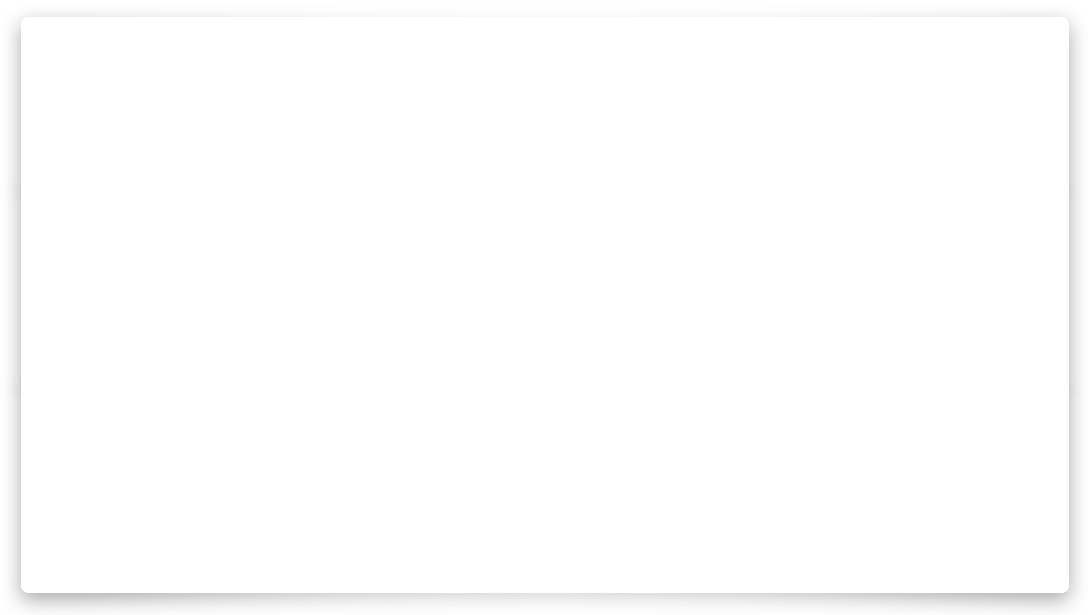
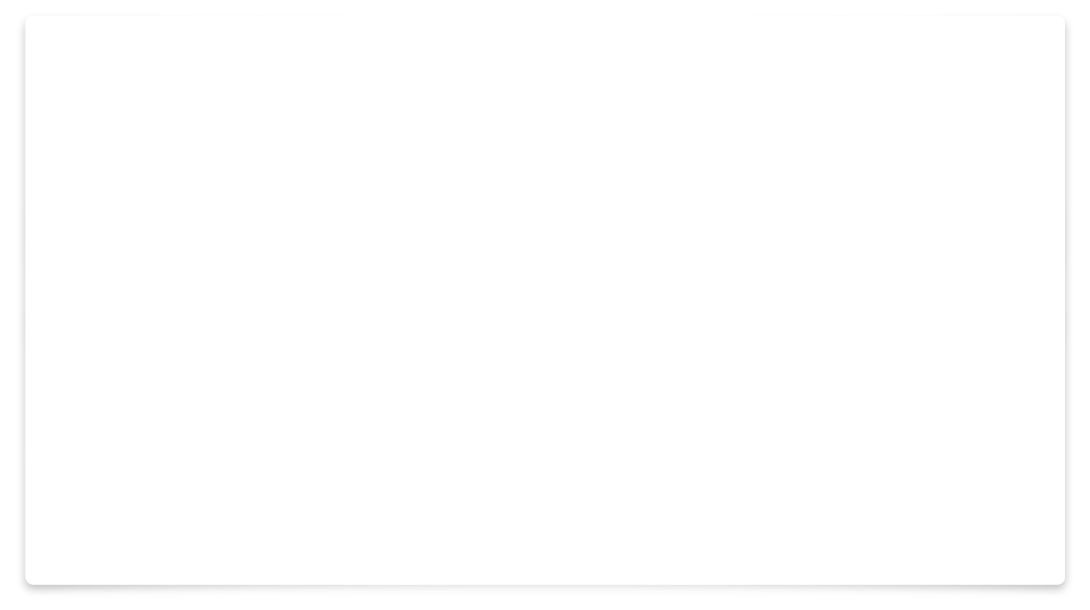
added clipping masks for webkit

Changed region(s): [[0.0, 0.0623, 0.3431, 0.9967], [0.6862, 0.0623, 0.9982, 0.9967]]

diff --git a/www/assets/styles/base.less b/www/assets/styles/base.less
@@ -22,15 +22,14 @@
 }
 
 #map {
-    padding: 15px 21px 24px;
+    padding: 15px 25px 24px;
     overflow:hidden;
     #sourcemap-map-view {
         position:relative;        
-        border:4px solid #fff;
         width: 1040px;
         height: 570px;
-        .rounded(8px);
         overflow:hidden;
+        -webkit-mask-box-image: url('../images/map-mask.png') top no-repeat;
     }
 }
 .olMap > div {  z-index:0 !important; }
@@ -893,6 +892,7 @@
         padding: 0;
         z-index: 9999;
         #sourcemap-map-view{
+            -webkit-mask-box-image: none; 
         }   
     }
 }

diff --git a/www/assets/styles/general.less b/www/assets/styles/general.less
@@ -571,7 +571,7 @@ input[type=checkbox]{
 
 /* Map View  ----------------------------------- */
 #map-secondary {
-	margin:40px auto;
+	margin:20px auto;
     .author {
 		margin-top:10px;
         padding-bottom:20px;
@@ -737,6 +737,7 @@ h1#site-tagline { font-size:30px; }
            .rounded(8px);
        }
         .anythingWindow {
+           -webkit-mask-box-image: url('../images/slider-mask.png') top no-repeat;
             ul { list-style:none; }
         }
         .preview-icons{
